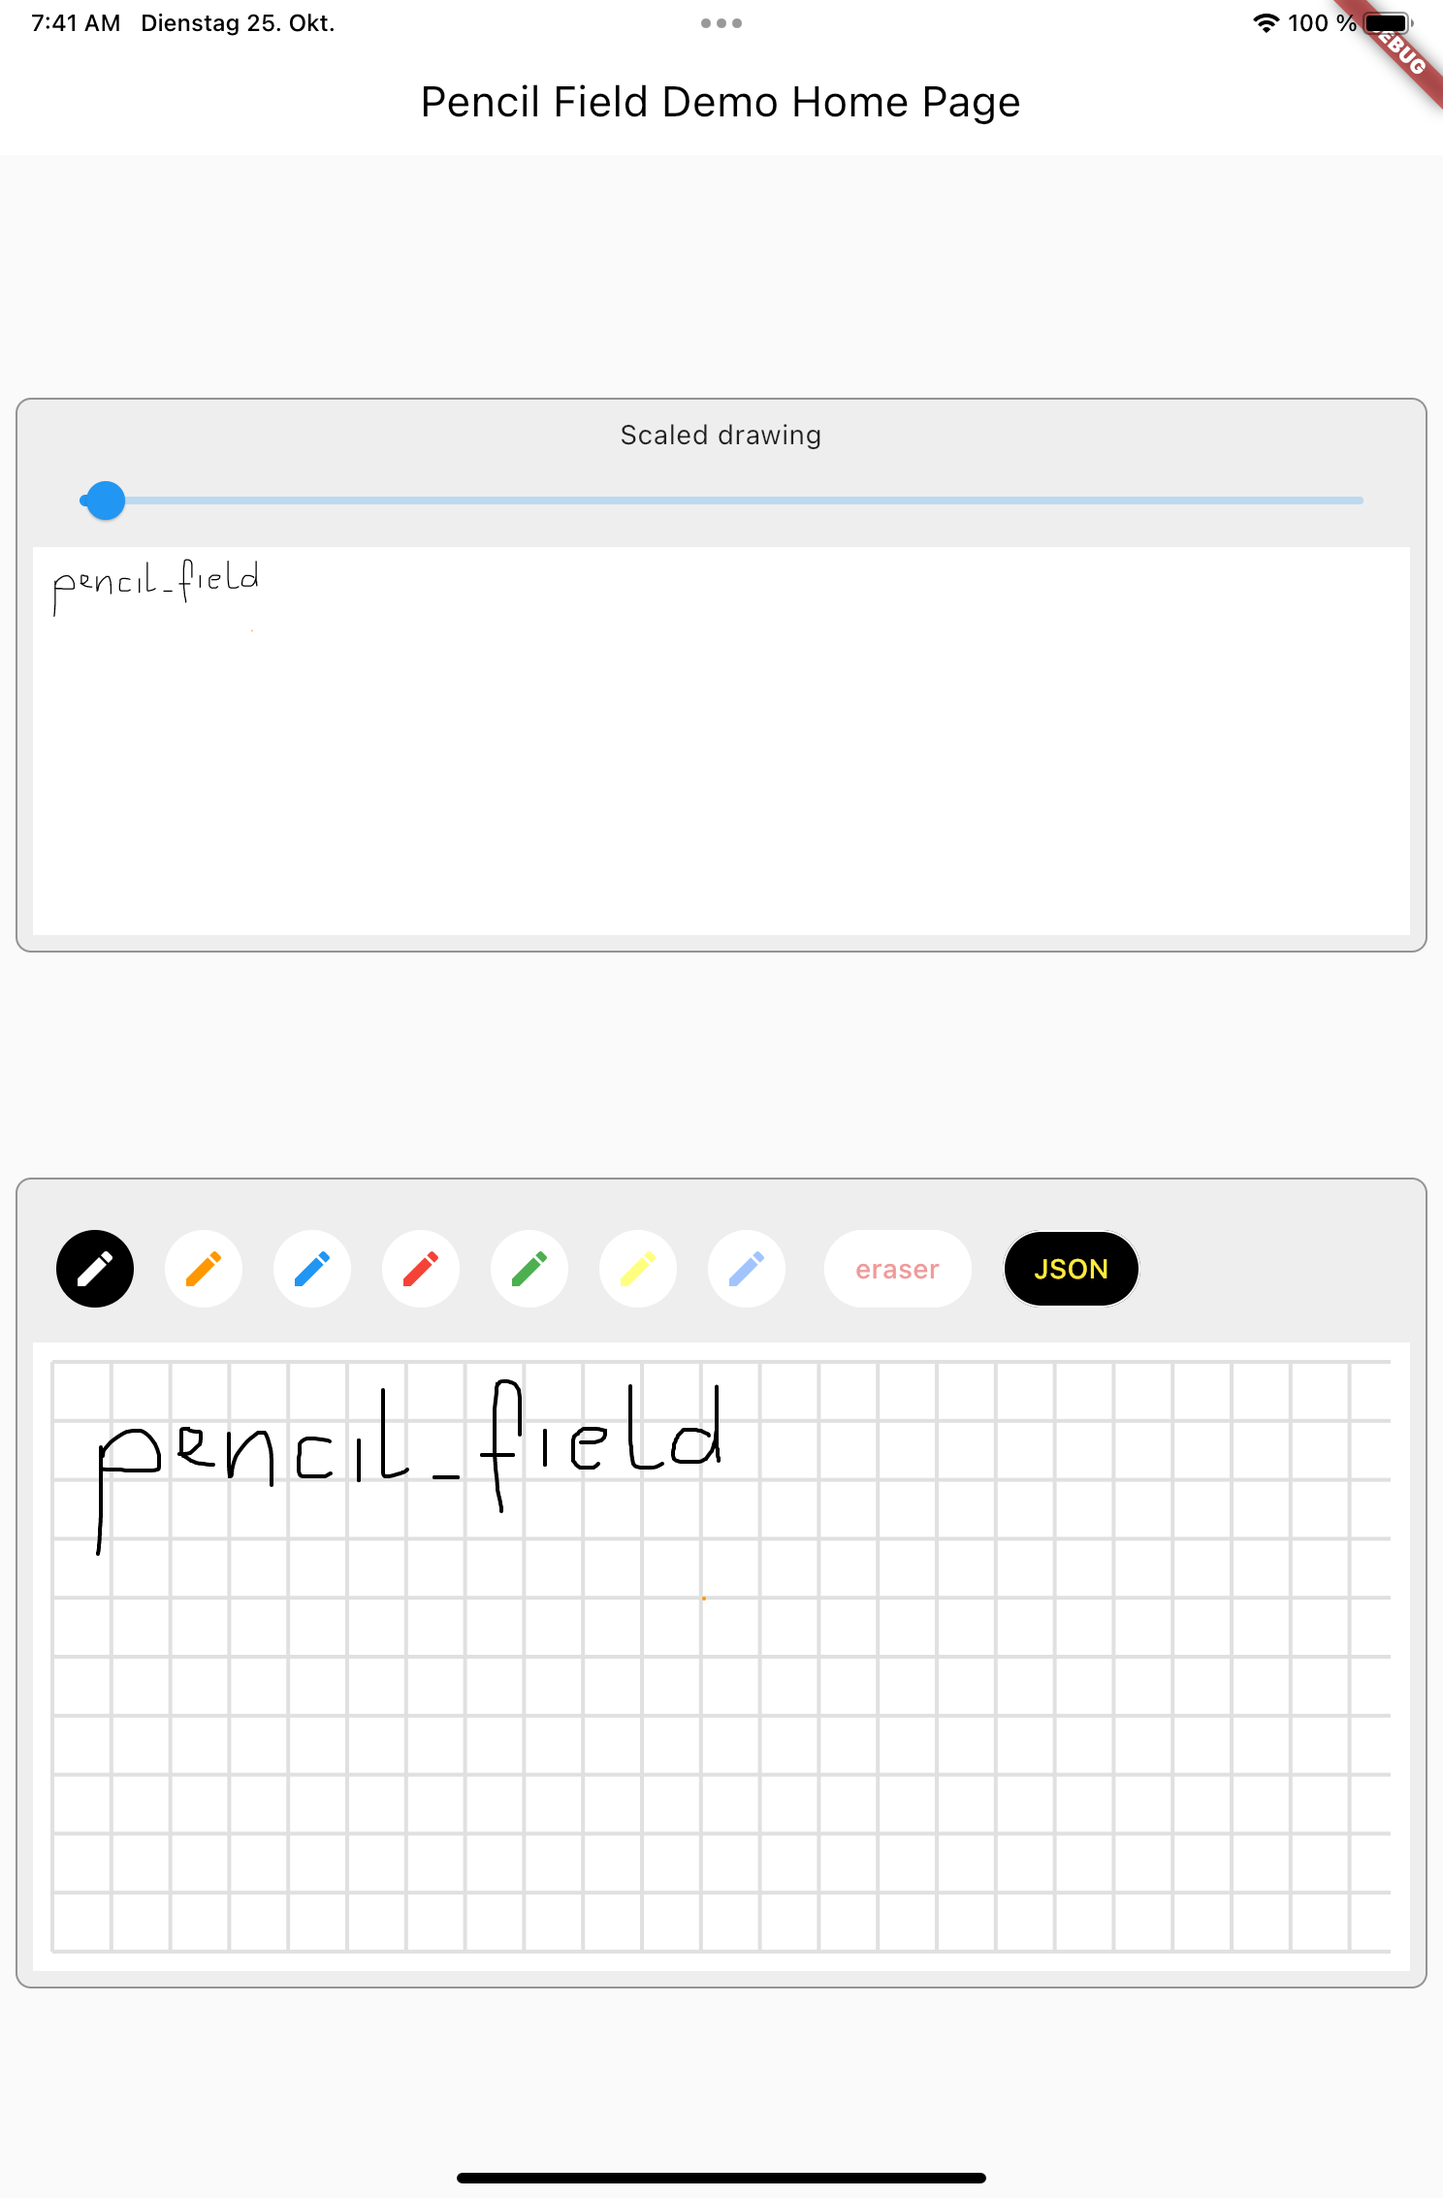
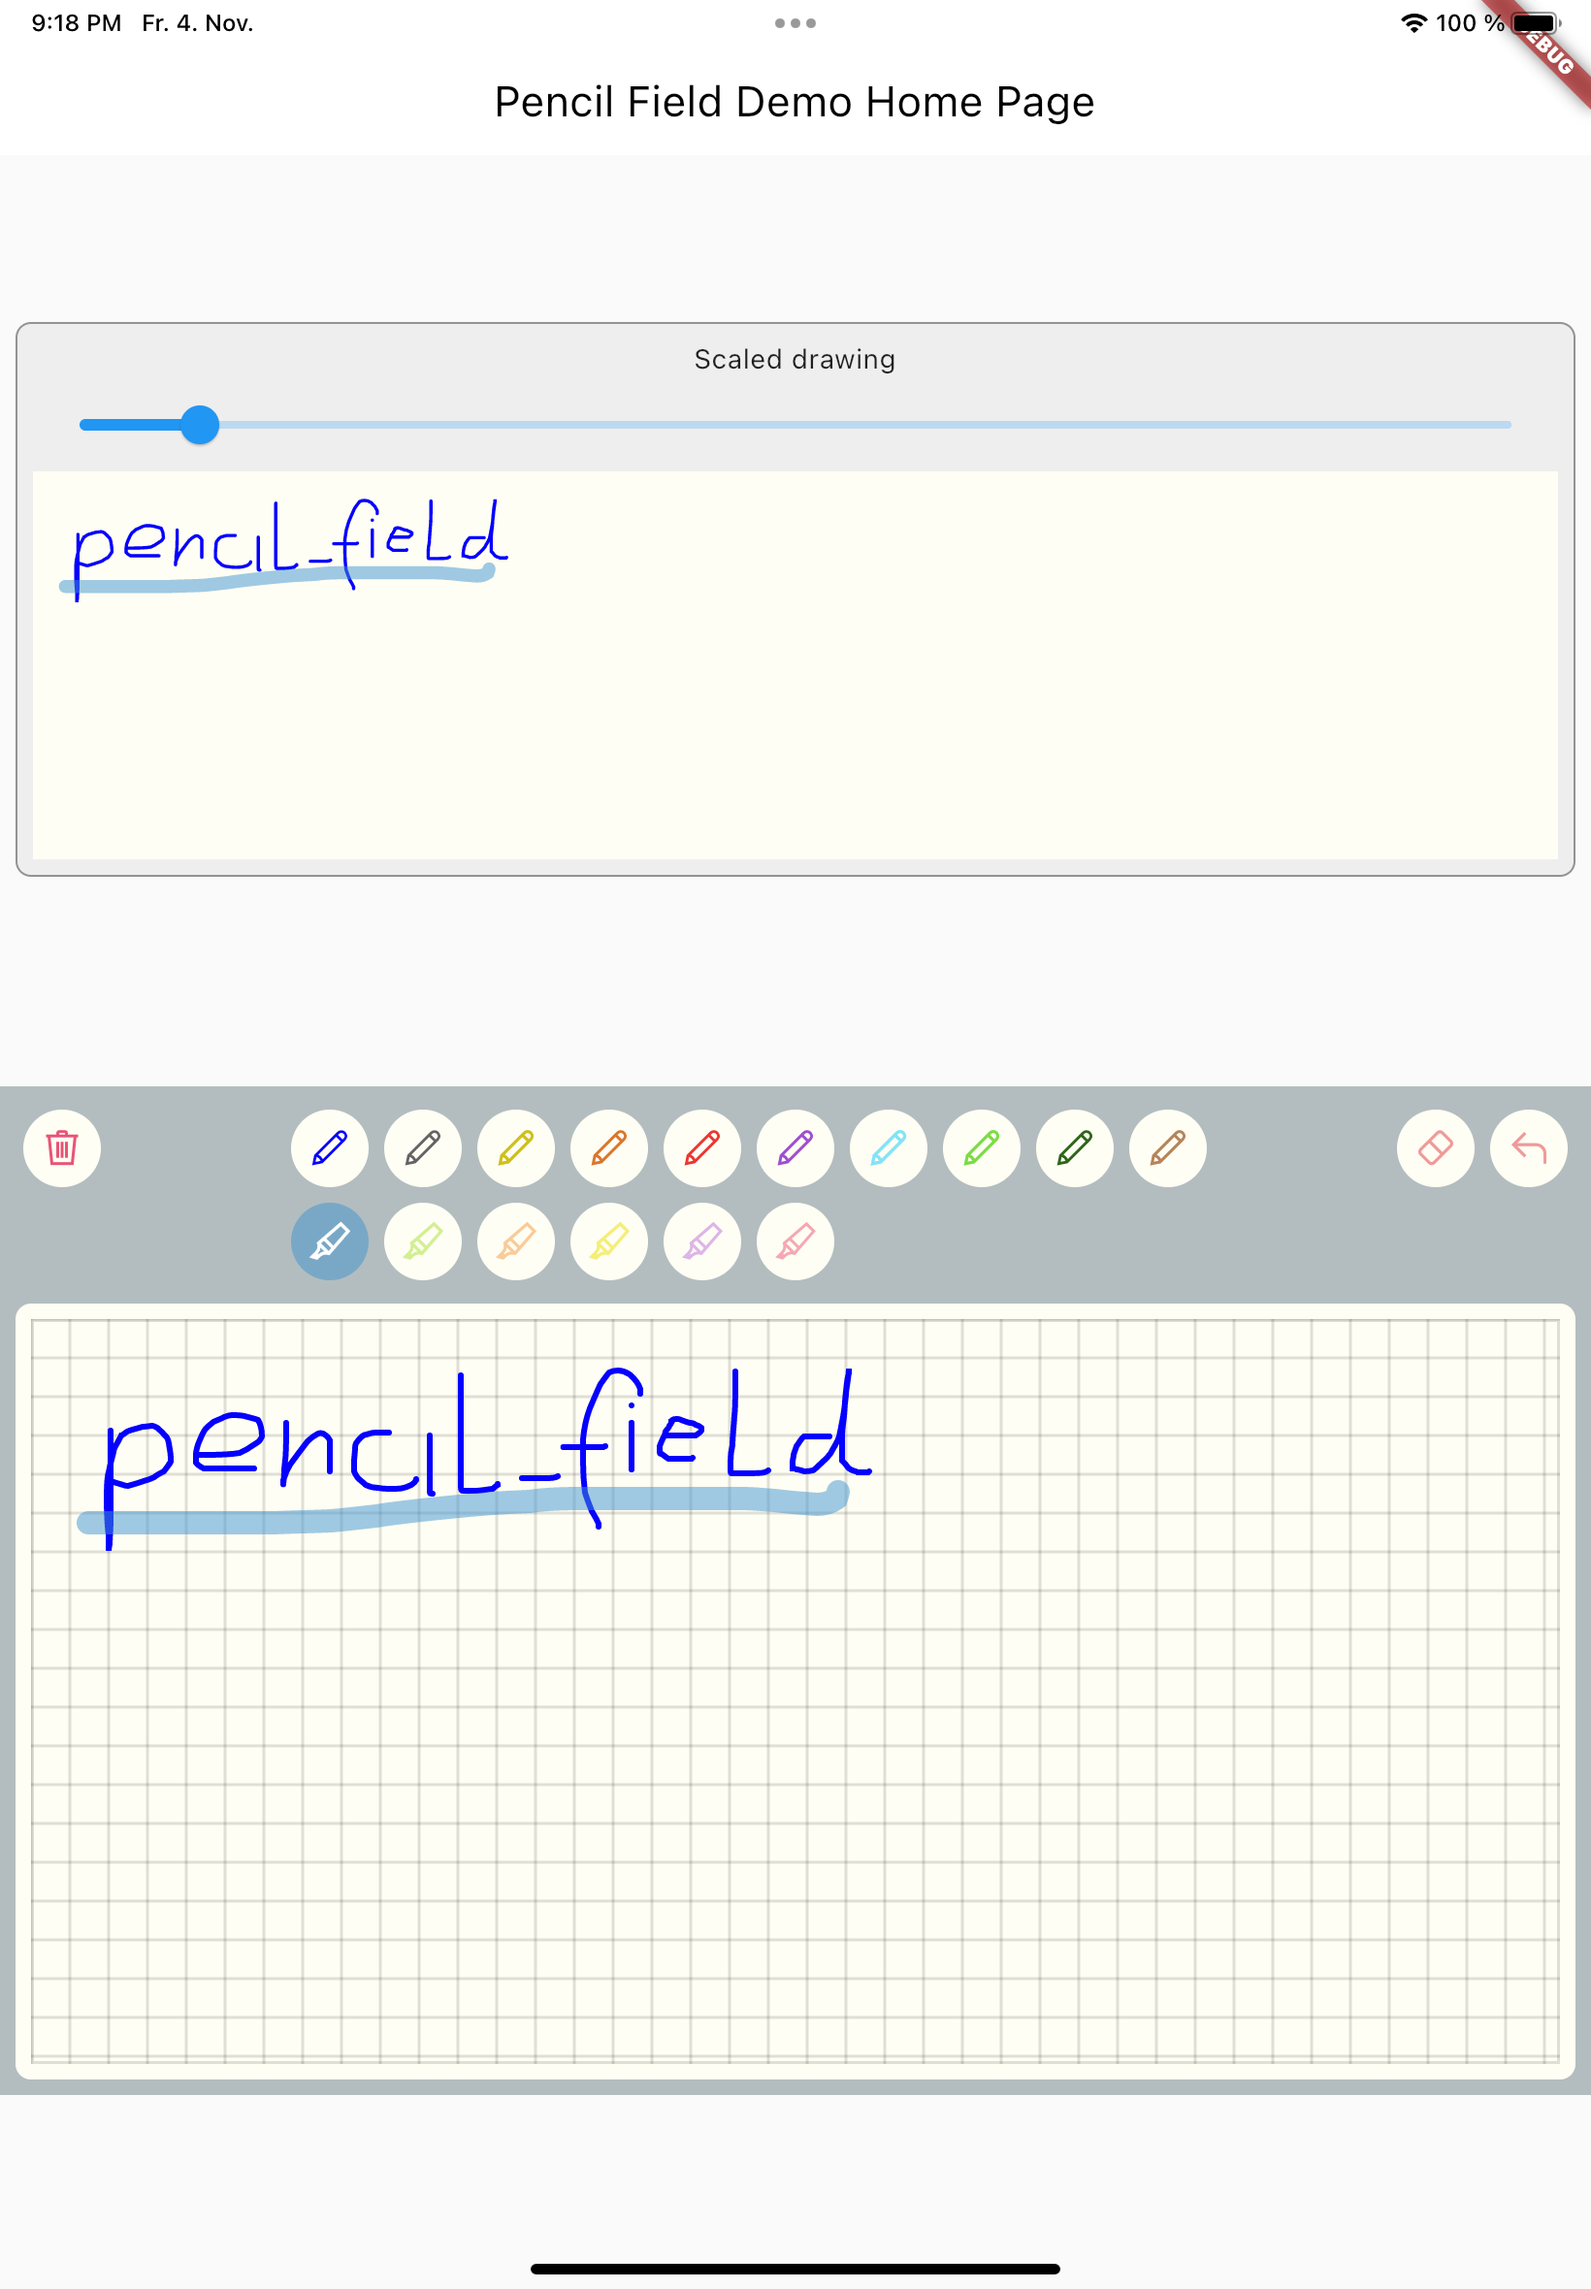
v0.4.0

diff --git a/test/stroke_test.dart b/test/stroke_test.dart
@@ -135,7 +135,7 @@ void main() {
         givenPaint: givenPaint,
         givenScaleFactor: 0.5,
         expectedNumberOfPoints:
-        givenPencilStroke1PointCount + givenPencilStroke2PointCount,
+            givenPencilStroke1PointCount + givenPencilStroke2PointCount,
         expectedSize: Size(
           givenDrawingSize.width * 0.5,
           givenDrawingSize.height * 0.5,
@@ -156,7 +156,7 @@ void main() {
         givenPaint: givenPaint,
         givenScaleFactor: 2.0,
         expectedNumberOfPoints:
-        givenPencilStroke1PointCount + givenPencilStroke2PointCount,
+            givenPencilStroke1PointCount + givenPencilStroke2PointCount,
         expectedSize: Size(
           givenDrawingSize.width * 2.0,
           givenDrawingSize.height * 2.0,
@@ -245,15 +245,15 @@ void main() {
         name: 'Load a version that is not supported\n',
         givenBezierDistance: 1,
         givenJson:
-        '{"version":2,"points":["0;0","0;20","20;20","20;0"],"bezierDistance":1,"paint":{"color":"4278190080","strokeWidth":2.0}}',
+            '{"version":2,"points":["0;0","0;20","20;20","20;0"],"bezierDistance":1,"paint":{"color":"4278190080","strokeWidth":2.0}}',
         expectedNumberOfPoints: 0,
       ),
       PencilStrokeTest(
         name:
-        'Load json with invalid point format (first point only has x coordinate)\n',
+            'Load json with invalid point format (first point only has x coordinate)\n',
         givenBezierDistance: 1,
         givenJson:
-        '{"version":1,"points":["0","0;20","20;20","20;0"],"bezierDistance":1,"paint":{"color":"4278190080","strokeWidth":2.0}}',
+            '{"version":1,"points":["0","0;20","20;20","20;0"],"bezierDistance":1,"paint":{"color":"4278190080","strokeWidth":2.0}}',
         expectedNumberOfPoints: 0,
       ),
     ];

diff --git a/lib/src/decoration.dart b/lib/src/decoration.dart
@@ -36,18 +36,6 @@ typedef PencilDecorationCustomPainter = void Function({
 });
 
 class PencilDecoration {
-  final PencilDecorationType type;
-  final EdgeInsets padding;
-  final Color backgroundColor;
-  final Color patternColor;
-  final double strokeWidth;
-  final bool hasBorder;
-  final int? numberOfLines;
-  final double? spacing;
-
-  final PencilDecorationPaintProvider? paintProvider;
-  final PencilDecorationCustomPainter? customPainter;
-
   PencilDecoration({
     this.type = PencilDecorationType.blank,
     this.padding = const EdgeInsets.all(0),
@@ -110,6 +98,18 @@ class PencilDecoration {
       return true;
     }());
   }
+
+  final PencilDecorationType type;
+  final EdgeInsets padding;
+  final Color backgroundColor;
+  final Color patternColor;
+  final double strokeWidth;
+  final bool hasBorder;
+  final int? numberOfLines;
+  final double? spacing;
+
+  final PencilDecorationPaintProvider? paintProvider;
+  final PencilDecorationCustomPainter? customPainter;
 
   /// Paint the decoration. This paint is always done before the actual content
   /// is painted.

diff --git a/lib/src/stroke.dart b/lib/src/stroke.dart
@@ -220,16 +220,14 @@ class PencilStroke {
       for (int pointIndex = 0;
           pointIndex < pointCount - 1 && !intersectionFound;
           pointIndex++) {
-        if (pointAt(pointIndex).x <=
-            pointAt(pointIndex + 1).x) {
+        if (pointAt(pointIndex).x <= pointAt(pointIndex + 1).x) {
           p1 = pointAt(pointIndex);
           p2 = pointAt(pointIndex + 1);
         } else {
           p2 = pointAt(pointIndex);
           p1 = pointAt(pointIndex + 1);
         }
-        intersectionFound =
-            PencilStroke.segmentIntersection(ip1, ip2, p1, p2);
+        intersectionFound = PencilStroke.segmentIntersection(ip1, ip2, p1, p2);
       }
     } else {
       // It's a point. Here wp1 and wp2 are the same. In order to have a

diff --git a/test/field_test.dart b/test/field_test.dart
@@ -138,7 +138,8 @@ void main() {
       final resultHelloImage =
           controller.drawingAsImage(backgroundColor: Colors.white);
 
-      await tester.runAsync<void>(additionalTime: const Duration(seconds: 5),
+      await tester.runAsync<void>(
+        additionalTime: const Duration(seconds: 5),
         () async {
           final imageAsPNG = await resultHelloImage.toPNG();
           writeImage('test/resulting_output/hello.png', imageAsPNG!);

diff --git a/example/lib/pencil_field_with_tools.dart b/example/lib/pencil_field_with_tools.dart
@@ -97,6 +97,7 @@ class _PencilFieldWithToolsState extends State<PencilFieldWithTools> {
           widget.controller.setDrawing(PencilDrawing(strokes: []));
           widget.controller.setMode(PencilMode.write);
           pencilPaint = writingPaint;
+          widget.onPencilDrawingChanged?.call(widget.controller.drawing);
           break;
         case _PencilToolType.undo:
           widget.controller.undo();

diff --git a/test/controller_test.dart b/test/controller_test.dart
@@ -5,8 +5,7 @@ import 'package:flutter_test/flutter_test.dart';
 
 /// The empty main is needed to run flutter test
 void main() {
-  group('Empty (all tests done in field_test.dart',(){
-    test('Empty',(){
-    });
+  group('Empty (all tests done in field_test.dart', () {
+    test('Empty', () {});
   });
 }

diff --git a/test/test_helpers.dart b/test/test_helpers.dart
@@ -125,5 +125,4 @@ bool compareImages(String expectedImagePath, Uint8List createdImage) {
   File file = File(expectedImagePath);
   final Uint8List expectedImage = file.readAsBytesSync();
   return listEquals(createdImage, expectedImage);
-
 }

diff --git a/README.md b/README.md
@@ -10,7 +10,7 @@ for any freehand input like signatures or drawings.
 <br>
 
 ## How to use
-The PencilField can be embedded in any screen (in this case in a StatefulWidget):
+Just create PencilField widget and embedd it into your page:
 ```dart
 PencilField(
   controller: widget.controller,
@@ -21,15 +21,14 @@ PencilField(
     backgroundColor: Colors.white,
     patternColor: Colors.grey[300]!,
     numberOfLines: 10,
-    lineWidth: 2,
+    strokeWidth: 2,
     padding: const EdgeInsets.all(10),
   ),
   pencilOnly: true,
 )
  ```
 
-And resulting input can be displayed like so (also embedded in a StatefulWidget). As everything
-is stored in vector format scaling (e.g. for creating previews) is easy:
+And resulting input can be displayed like so. As everything is stored in vector format scaling (e.g. for creating previews) is easy:
 ```dart
 PencilDisplay(
   pencilDrawing: widget.controller.drawing.scale(
@@ -42,49 +41,15 @@ PencilDisplay(
 ## Features
 <br>
 
-### PencilField
-| Name                   | Type                      | Default          | Description                                              |
-|------------------------|---------------------------|------------------|----------------------------------------------------------|
-| key                    | `Key?`                    |                  | Assign key to PencilField widget                         |
-| controller             | `PencilController`        | Always required  | Controller to interact with the widget during user input |
-| pencilPaint            | `PencilPaint`             | Always required  | The paint that will be used for the current interaction  |
-| decoration             | `PencilDecoration?`       | Blank decoration | Style of the background (see below)                      |
-| onPencilDrawingChanged | `OnPencilDrawingChanged?` |                  | Callback when the content of the drawing changes         |
-| pencilOnly             | `bool`                    | false            | If set to true only input from pen devices is used       |
-<br>
+### PencilField / PencilFieldController
+The actual widget that provides the capability to capture and store freehand / pencil input. Each PencilField requires a controller that builds the bridge between the widget and PencilDrawing that stores the input.
 
-### PencilFieldDecoration
-| Name            | Type                  | Default            | Description                                                                                                          |
-|-----------------|-----------------------|--------------------|----------------------------------------------------------------------------------------------------------------------|
-| type            | `PencilDeorationType` | blank              | Type of decoration. It can either be blank, chequered, lines, dots. Examples can be found in test folder.            |
-| padding         | `EdgeInsets`          | EdgeInsets.all(0)  | Inner space of the decoration. The pattern will only be drawn inside                                                 |
-| backgroundColor | `Color`               | Colors.transparent | Color of the background.                                                                                             |
-| patternColor    | `Color`               | Colors.black54     | Color of the pattern                                                                                                 |
-| lineWidth       | `double`              | 1.0                | Line width for the pattern. In case of dots this is used for the radius.                                             |
-| numberOfLines   | `int`                 | 0                  | Number of lines. In case of the chequered pattern the vertical distance is used for the horizontal distance as well. |
-<br>
 
-### PencilDisplay
-| Name          | Type                | Default         | Description                         |
-|---------------|---------------------|-----------------|-------------------------------------|
-| key           | `Key?`              |                 | Assign key to PencilField widget    |
-| pencilDrawing | `PencilDrawing`     | Always required | The drawing that shall be displayed |
-| decoration    | `PencilDecoration?` |                 | Style of the background.            |
-<br>
+### PencilDrawing
+PencilDrawing stores the actual content captured by PencilField. You can store and retrieve this data in a versioned format, so that future version of PencilField can load old data.
 
-## PencilDrawing
-| Name          | Type                 | Default         | Description                                    |
-|---------------|----------------------|-----------------|------------------------------------------------|
-| strokes       | `<PencilStrokes>[]`  | Always required | Initial set of strokes. Can be an empty array. |
-
-PencilDrawing also lets you save (toJson) and load (fromJson) a drawing. It also provides its own versioning mechanism to ensure
-compatibility with future version.
-<br>
-<br>
-
-## Additional information
-A full example is provided in the repository.
-
+### Example
+A full example is provided. This example shows how to use PencilField and its litte sibling PencilDisplay. It also shows how to define pens for input and interactions like erase, undo and clear.
 <br>
 
 ## Upcoming features

diff --git a/CHANGELOG.md b/CHANGELOG.md
@@ -51,4 +51,5 @@
 * **BREAKING** Renamed methods dealing with strokes of class PencilDrawing for better clarity.
 * **IMPROVEMENT** Added many more tests
 * **IMPROVEMENT** Refactoring of code for better readability
+* **IMPROVEMENT** More comprehensive example is provided
 
